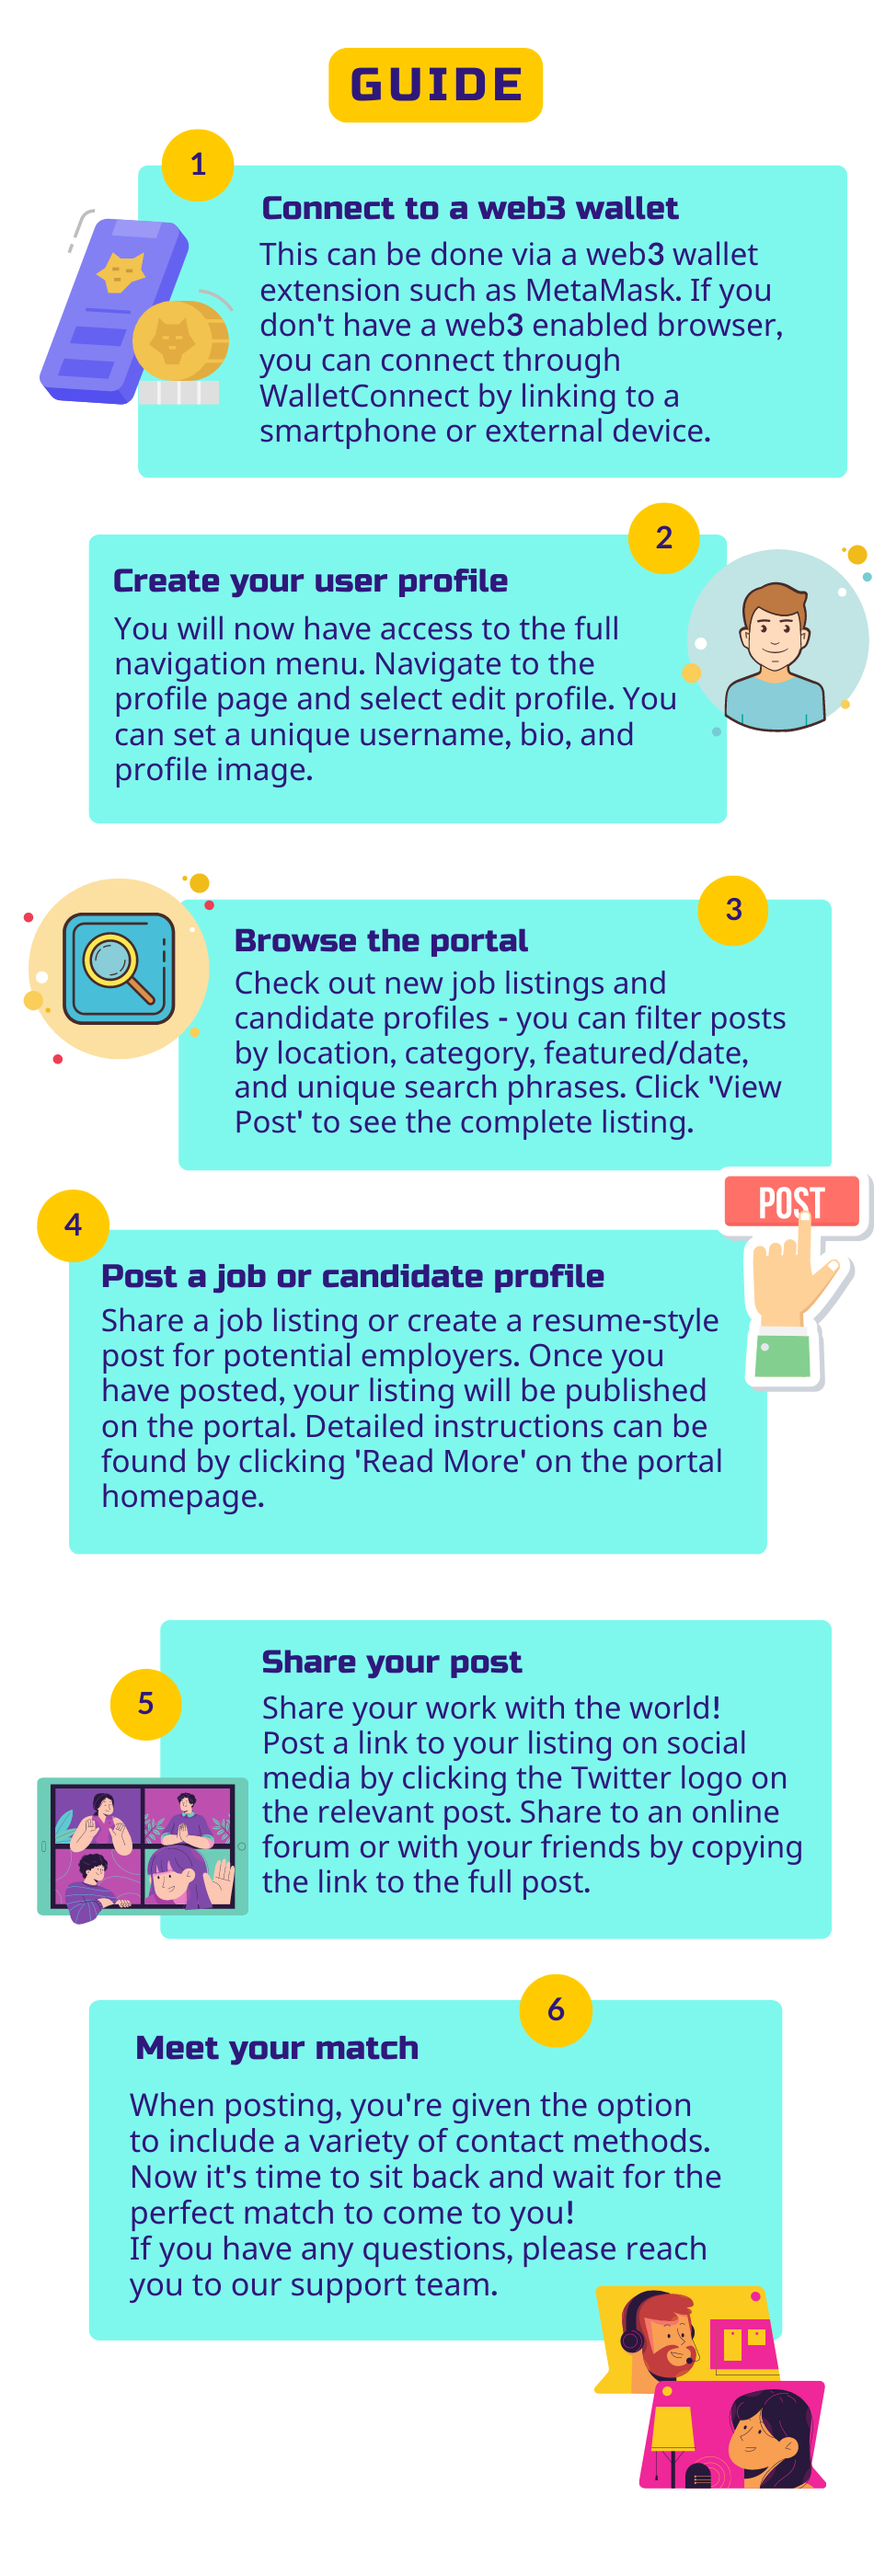
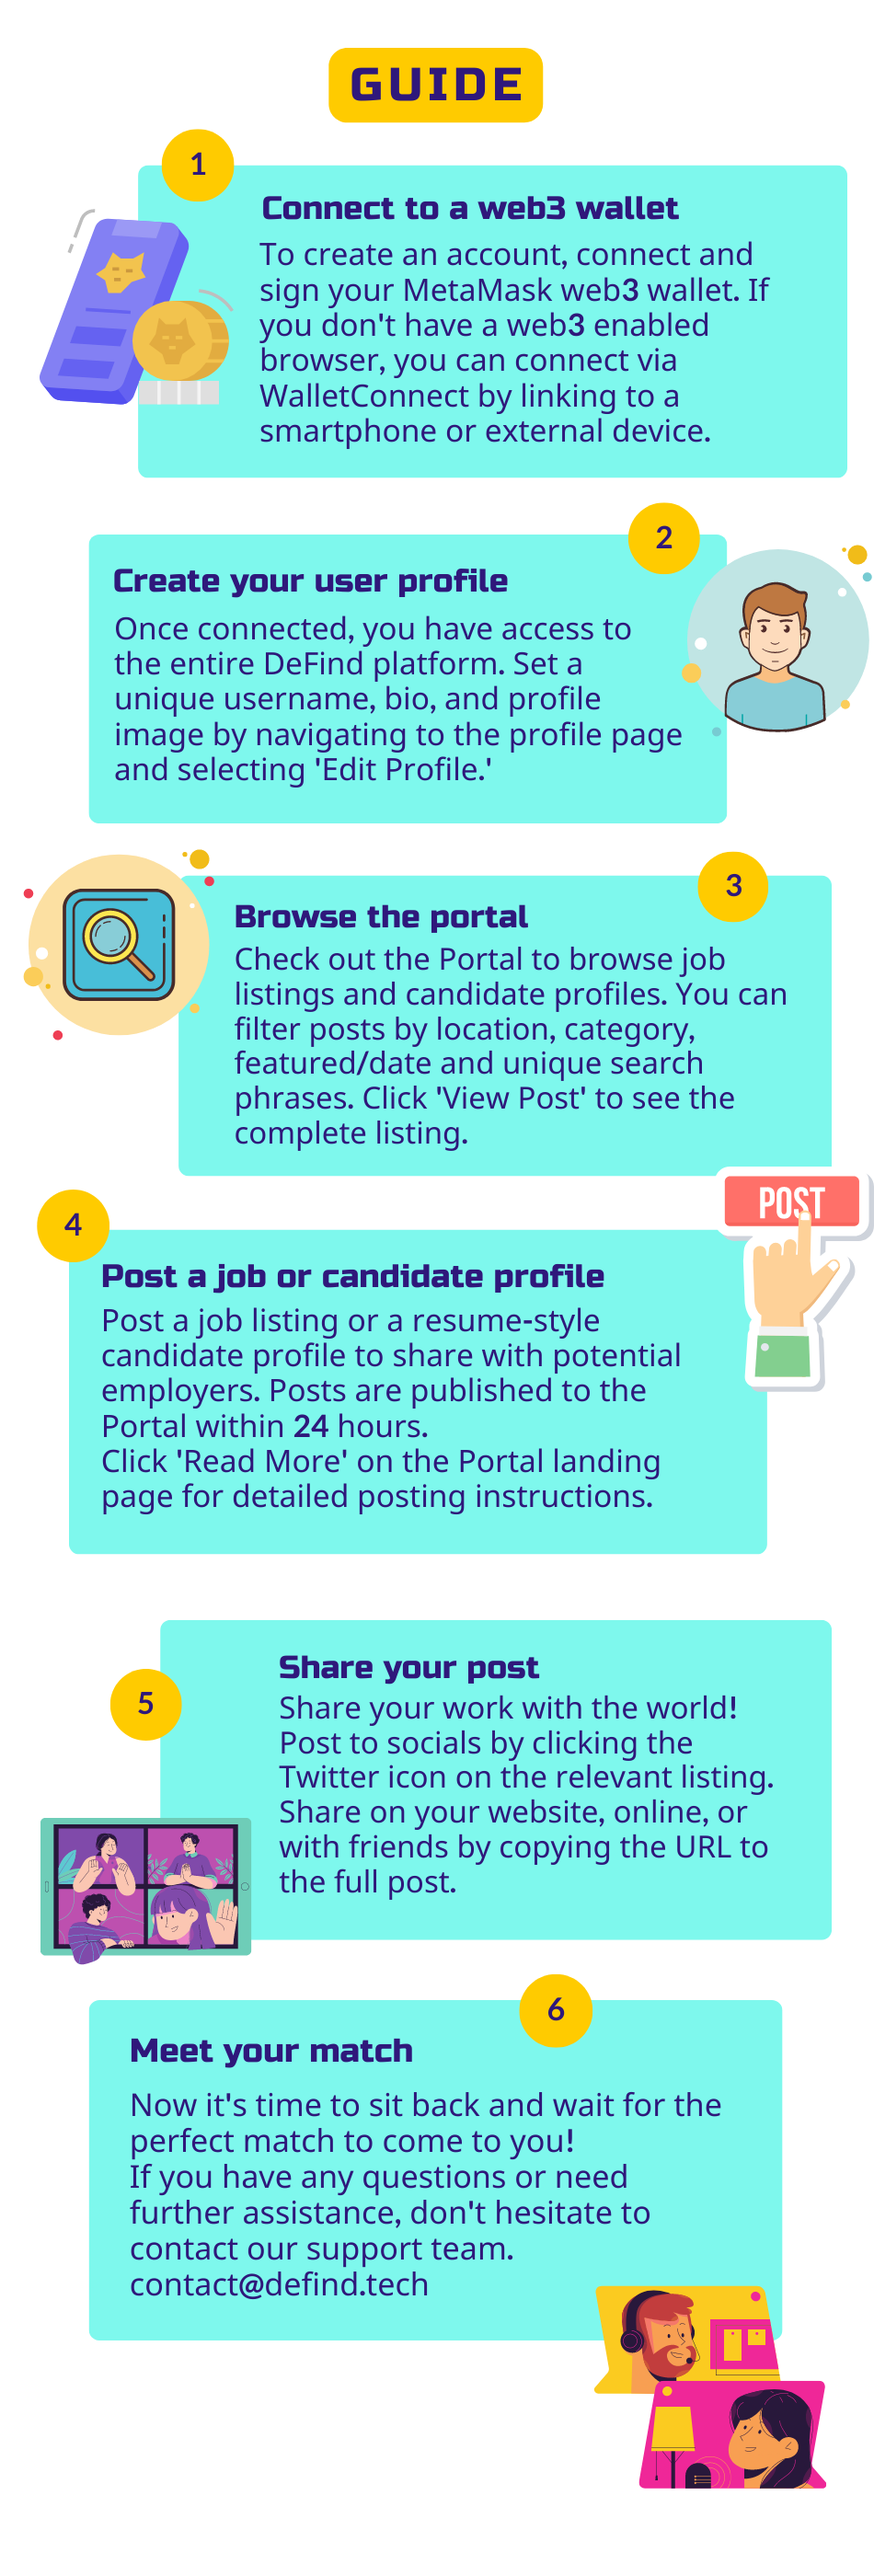
Website copy updated

diff --git a/src/pages/Post.js b/src/pages/Post.js
@@ -6,9 +6,6 @@ import { motion, AnimatePresence } from "framer-motion";
 import softwareDev from "../components/images/softwareDev.png";
 import { Links } from "../components/Styles/Links";
 
-const text =
-  "Welcome to the portal. This is where you are able to match yourself with the perfect job or candiadate";
-
 const Post = () => {
   const { user, Moralis } = useMoralis();
   const [readMore, setReadMore] = useState(false);
@@ -31,13 +28,20 @@ const Post = () => {
             <HeaderWrapper>
               <Header>Share Your Story</Header>
               <Text>
-                {text}.
+                <p>List a job or post your professional profile.</p> <br />
+                <p>You can fill in all fields or just include a summary.</p>
+                <br />
+                <p>
+                  Resumes, cover letters and additional documents can be
+                  uploaded via IPFS in PDF format.
+                </p>
                 <motion.div
                   onClick={() => setReadMore(!readMore)}
                   whileHover={{ scale: 1.05 }}
                   style={{ display: "inline", cursor: "pointer" }}
                 >
-                  <b> Read more.</b>
+                  <br />
+                  <b>Read more.</b>
                 </motion.div>
               </Text>
             </HeaderWrapper>
@@ -83,26 +87,26 @@ const Post = () => {
                     Share your story:
                   </div>
                   <p style={{ paddingTop: "0.5rem" }}>
-                    We offer basic and featured posts. Basic posts and free to
-                    publish, while featured posts incur a charge. A charge that
-                    is decided by you.
+                    DeFind supports basic and featured listings. Basic posts are
+                    free to publish, while featured posts incur a charge that
+                    you decide.
                   </p>
                   <p>
                     <br />
-                    While all posts are visible on the portal, they are by
-                    default filtered by 'Featured Points'. <br />
+                    While all posts are visible on the Portal, they are filtered
+                    by 'Featured Points' by default. <br />
                     <br />
                     <i>Featured Points = USD post value * 10</i>
                   </p>
                   <br />
                   <p>
                     Posts with the highest number of Featured Points are
-                    displayed at the top of the portal, while basic posts are
-                    displayed last.
+                    displayed at the top of the Portal, while basic listings are
+                    shown last.
                   </p>
                   <br />
                   <p>
-                    In order for your post to be viewed by the most eyes, it is
+                    For your post to be viewed by the most eyes, it is
                     recommended to utilise the Featured Points bidding system to
                     secure a top rank.
                   </p>
@@ -113,11 +117,14 @@ const Post = () => {
                   </p>
                   <br />
                   <p>
-                    Please note, all posts will be screened for compliance
+                    Please note that all posts will be screened for compliance
                     within 24 hours. Once approved, they will be published to
-                    the portal and active for 30 days. If you wish to edit or
-                    delete a post during this time, please contact our support
-                    team.
+                    the Portal and active for 30 days.
+                  </p>
+                  <br />
+                  <p>
+                    Please contact our support team if you wish to edit or
+                    delete a post during this time - contact@defind.tech
                   </p>
                 </ModalText>
                 <Button onClick={() => setReadMore(!readMore)} text="Close" />
@@ -193,7 +200,7 @@ const ModalText = styled.div`
 `;
 
 const Modal = styled(motion.div)`
-  width: 40rem;
+  width: 60rem;
   position: absolute;
   border-radius: 1rem;
   padding: 1rem 2rem;
@@ -212,7 +219,7 @@ const Modal = styled(motion.div)`
 const HeaderWrapper = styled.div`
   text-align: left;
   margin-top: 2rem;
-  width: 30rem;
+  width: 35rem;
   @media screen and (max-width: 975px) {
     text-align: center;
   }
@@ -223,7 +230,7 @@ const HeaderWrapper = styled.div`
 
 const ButtonWrapper = styled.div`
   display: flex;
-  width: 32rem;
+  width: 37rem;
   @media screen and (max-width: 975px) {
     justify-content: center;
   }

diff --git a/src/pages/Portal.js b/src/pages/Portal.js
@@ -5,8 +5,6 @@ import { motion } from "framer-motion";
 import softwareDev from "../components/images/worker.png";
 import { Links } from "../components/Styles/Links";
 
-const text =
-  "Welcome to the portal. This is where you are able to match yourself with the perfect job or candiadate";
 const Portal = () => {
   return (
     <>
@@ -26,7 +24,23 @@ const Portal = () => {
             >
               <HeaderWrapper>
                 <Header>Find Your Match</Header>
-                <Text>{text}</Text>
+                <Text>
+                  <p>
+                    Welcome to the Portal. It's time to match yourself with the
+                    perfect job or employee.
+                  </p>
+                  <br />
+                  <p>
+                    Filter posts by location, category, featured/date and unique
+                    search phrases. Click 'View Post' to see the complete
+                    listing.
+                  </p>
+                  <br />
+                  <p>
+                    Resumes, cover letters and additional documents can be
+                    viewed and downloaded via the IPFS link on the full post.
+                  </p>
+                </Text>
               </HeaderWrapper>
               <ButtonWrapper>
                 <Links to="/portal/jobs">
@@ -81,7 +95,7 @@ const Wrapper = styled.div`
 const HeaderWrapper = styled.div`
   text-align: left;
   margin-top: 2rem;
-  width: 30rem;
+  width: 35rem;
   @media screen and (max-width: 975px) {
     text-align: center;
     margin-top: 5rem;
@@ -122,7 +136,7 @@ const Header = styled.div`
 
 const ButtonWrapper = styled.div`
   display: flex;
-  width: 32rem;
+  width: 37rem;
   @media screen and (max-width: 975px) {
     justify-content: center;
   }

diff --git a/src/components/Styles/Twitter.js b/src/components/Styles/Twitter.js
@@ -8,7 +8,7 @@ const Twitter = () => {
       <>
         <div>
           <a
-            href="https://twitter.com/billy_3nd"
+            href="https://twitter.com/defind_web3"
             alt="DeFind Twitter"
             rel="noopener noreferrer"
             target="_blank"
